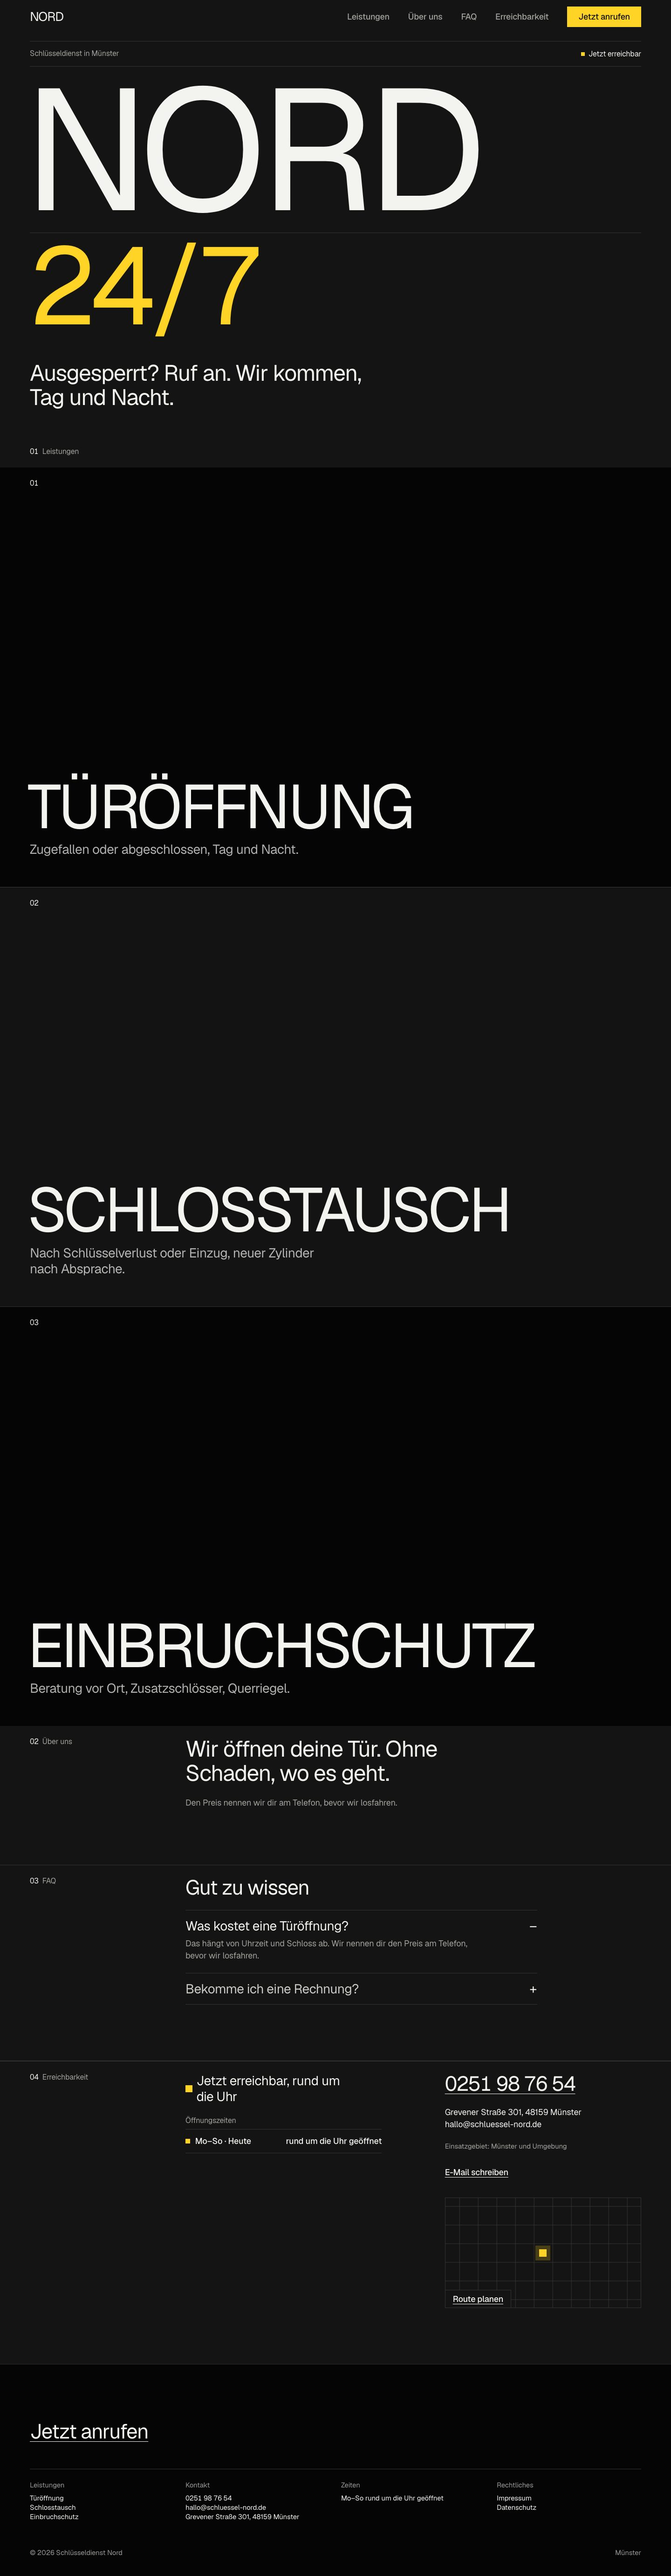
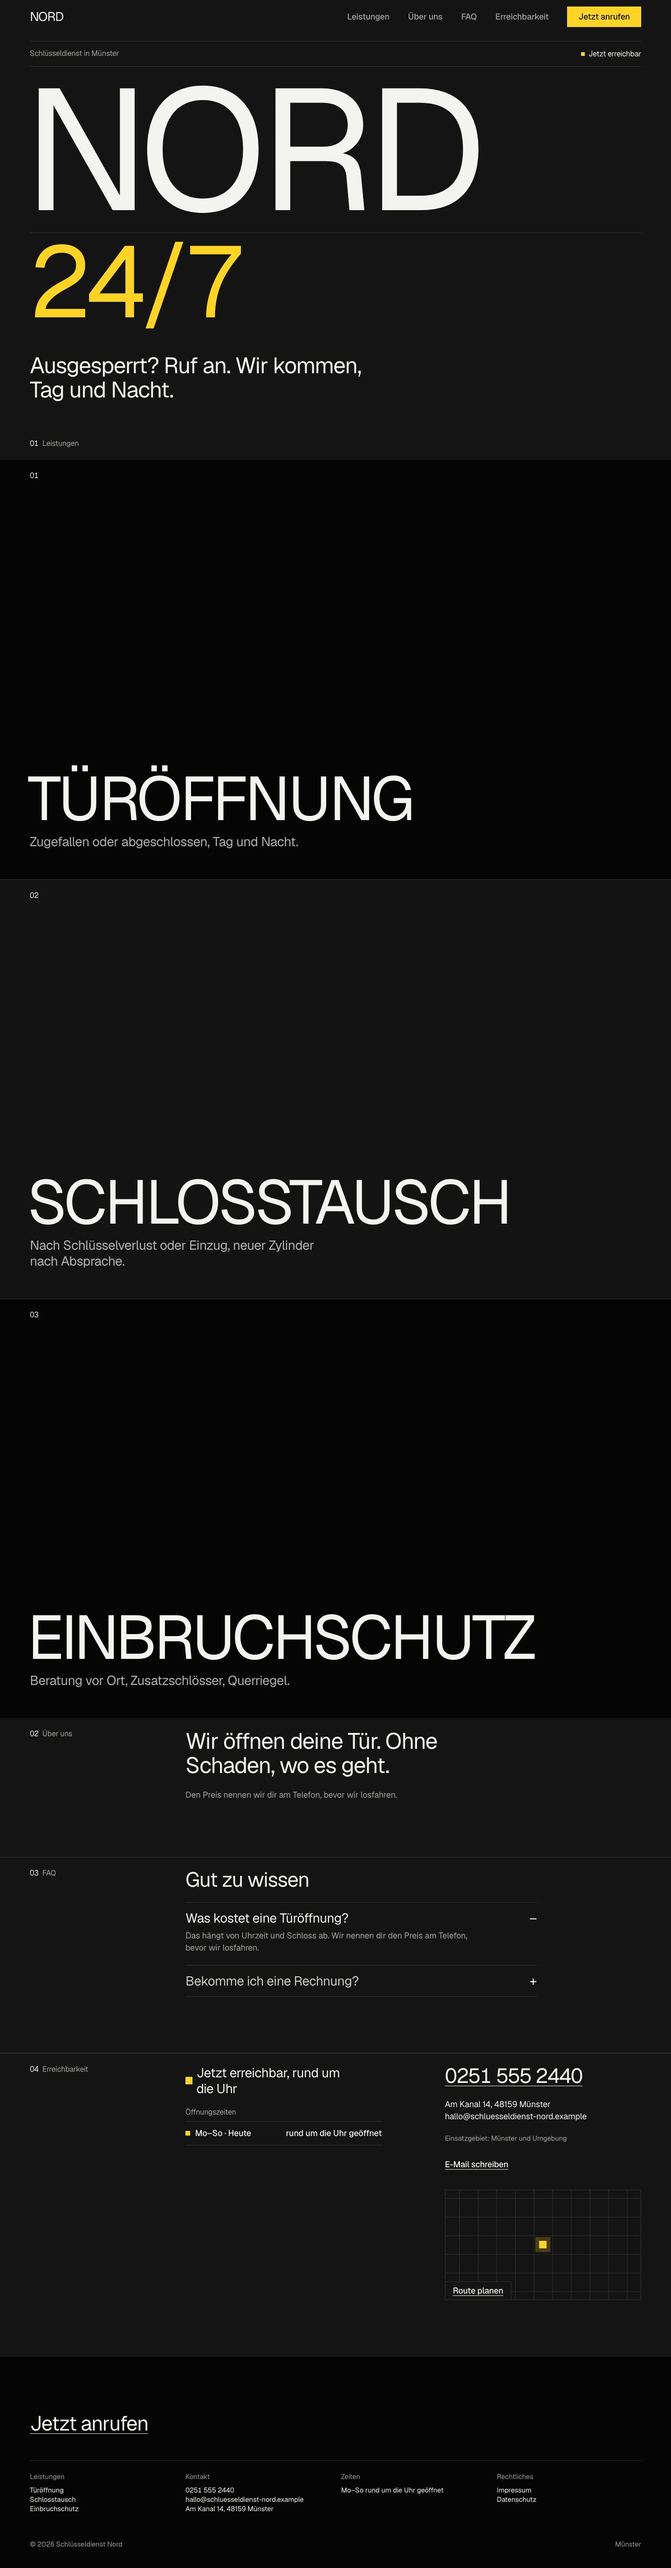
fix(raster): fiktive Kontaktdaten der Beispielbetriebe, benannte Höhenanteile
- Schlüsseldienst Nord: 555-Rufnummer, neutrale Straße, .example-Domain;
  Werkstatt/Taxi/Hersteller ebenfalls auf .example (Test)
- Höhenbremse als ENTRY_HEIGHT_SHARE (60 % / 36 % + 24 %), Test prüft
  Struktur und gemeinsames Budget statt fester Zahlen
- Abnahmebilder Werkstatt und Schlüsseldienst neu gerendert

diff --git a/client/src/components/site/systems/raster/css.ts b/client/src/components/site/systems/raster/css.ts
@@ -64,14 +64,25 @@ const SCRIM = [
 const LOCAL_SCRIM = `linear-gradient(180deg,transparent 0,${deepAt(BLEED_SCRIM.local)} var(--sys-space-m),${deepAt(BLEED_SCRIM.local)} calc(100% - var(--sys-space-m)),transparent 100%)`;
 
 /**
- * Höhenbremse der Wortmarke: alle Zeilen zusammen höchstens 60 % der
- * Bildschirmhöhe (`--rs-lines` aus fit.ts, nur ab zwei Zeilen gesetzt), damit
- * Satz und Fakten im ersten Bildschirm bleiben („Kfz-Service Brandt" auf
- * 1440 × 900 sonst drei Zeilen à 18 rem).
+ * Höhenbremse im Einstieg, als Anteil der Bildschirmhöhe (`svh`): alle
+ * Zeilen der Wortmarke zusammen höchstens `mark` (`--rs-lines` aus fit.ts,
+ * nur ab zwei Zeilen gesetzt), damit Satz und Fakten im ersten Bildschirm
+ * bleiben („Kfz-Service Brandt" auf 1440 × 900 sonst drei Zeilen à 18 rem).
+ * Im Typo-Einstieg teilen sich Name (`typeMark`) und „24/7" (`typeClock`)
+ * dasselbe Budget. Auf dem Handy greift die Breite zuerst.
  */
-const MARK_HEIGHT = `60svh / (var(--rs-lines,1) * ${RASTER.type.display.line})`;
-/** Typo-Einstieg: Name höchstens 36 %, „24/7" höchstens 26 % der Höhe. */
-const MARK_HEIGHT_TYPE = `36svh / (var(--rs-lines,1) * ${RASTER.type.display.line})`;
+export const ENTRY_HEIGHT_SHARE = {
+  mark: 0.6,
+  typeMark: 0.36,
+  typeClock: 0.24,
+} as const;
+const svh = (share: number) => `${Math.round(share * 100)}svh`;
+/** Höhe je Zeile: Anteil ÷ (Zeilen × Zeilenhöhe der Stufe `display`). */
+const perLine = (share: number) =>
+  `${svh(share)} / (var(--rs-lines,1) * ${RASTER.type.display.line})`;
+const MARK_HEIGHT = perLine(ENTRY_HEIGHT_SHARE.mark);
+const MARK_HEIGHT_TYPE = perLine(ENTRY_HEIGHT_SHARE.typeMark);
+const CLOCK_HEIGHT = svh(ENTRY_HEIGHT_SHARE.typeClock);
 
 /**
  * Einstieg (Systemblatt 6/10). Wortmarke: Größe aus der Spaltenbreite
@@ -132,7 +143,7 @@ const ENTRY_CSS = `/* Einstieg: drei Fassungen (plate · bleed · type) */
 .pb-raster .rs-entry-clock{container-type:inline-size;border-top:1px solid var(--sys-rule);margin-top:var(--sys-space-s);padding-top:var(--sys-space-xs);color:var(--sys-signal)}
 .pb-raster .rs-entry-clock-figure{${step("figure")};display:block;font-variant-numeric:tabular-nums;white-space:nowrap}
 @supports (font-size:1cqi){
-  .pb-raster .rs-entry-clock-figure{font-size:clamp(var(--sys-figure-size),min(100cqi / var(--rs-fit),26svh),${FIT_MAX_REM}rem)}
+  .pb-raster .rs-entry-clock-figure{font-size:clamp(var(--sys-figure-size),min(100cqi / var(--rs-fit),${CLOCK_HEIGHT}),${FIT_MAX_REM}rem)}
 }
 .pb-raster .rs-entry--type .rs-entry-bottom{margin-top:auto;padding-top:var(--sys-space-xl)}
 

diff --git a/client/src/components/site/systems/raster/entry.test.tsx b/client/src/components/site/systems/raster/entry.test.tsx
@@ -2,7 +2,7 @@ import React from "react";
 import { renderToStaticMarkup } from "react-dom/server";
 import { describe, expect, test } from "vitest";
 import { SiteRenderer } from "../../SiteRenderer";
-import { RASTER_CSS } from "./css";
+import { ENTRY_HEIGHT_SHARE, RASTER_CSS } from "./css";
 import {
   kanzleiDoc,
   patchSection,
@@ -154,15 +154,27 @@ describe("Raster-Einstieg: Wortmarke und h1", () => {
     expect(entryOf(render(three))).toMatch(
       /class="rs-wordmark" style="--rs-fit:\d\.\d{3};--rs-lines:3"/
     );
-    expect(RASTER_CSS).toMatch(
-      /\.rs-entry--type \.rs-wordmark\{font-size:clamp\([^}]*36svh/
-    );
-    expect(RASTER_CSS).toMatch(/\.rs-entry-clock-figure\{font-size:clamp\([^}]*26svh/);
     const one = { ...kanzleiDoc(), businessName: "Yilmaz" };
     expect(entryOf(render(one))).not.toContain("--rs-lines");
-    expect(RASTER_CSS).toMatch(
-      /\.rs-wordmark\{font-size:clamp\([\d.]+rem,min\(100cqi \/ var\(--rs-fit\),60svh \/ \(var\(--rs-lines,1\) \* 0\.88\)\),26rem\)\}/
-    );
+  });
+
+  test("Höhenbremse: Breite und Höhe begrenzen gemeinsam, Typo-Einstieg teilt das Budget", () => {
+    const { mark, typeMark, typeClock } = ENTRY_HEIGHT_SHARE;
+    // Name + „24/7" im Typo-Einstieg nicht höher als ein Foto-Einstiegsname.
+    expect(typeMark + typeClock).toBeLessThanOrEqual(mark);
+    const sizeOf = (selector: string) =>
+      RASTER_CSS.match(
+        new RegExp(`${selector.replace(/[.]/g, "\\.")}\\{font-size:([^}]*)\\}`)
+      )?.[1] ?? "";
+    // Höhe je Zeile wird durch die Zeilenzahl geteilt (Fallback 1 Zeile).
+    for (const sel of [".rs-wordmark", ".rs-entry--type .rs-wordmark"]) {
+      const size = sizeOf(sel);
+      expect(size).toMatch(/^clamp\(.*min\(100cqi \/ var\(--rs-fit\),/);
+      expect(size).toContain("/ (var(--rs-lines,1) *");
+    }
+    expect(sizeOf(".rs-wordmark")).toContain(`${mark * 100}svh`);
+    expect(sizeOf(".rs-entry--type .rs-wordmark")).toContain(`${typeMark * 100}svh`);
+    expect(sizeOf(".rs-entry-clock-figure")).toContain(`${typeClock * 100}svh`);
   });
 
   test("Kanzlei: Kicker Branche in Ort, Satz aus der Überschrift", () => {

diff --git a/shared/stylePacks/blueprintShowcase.ts b/shared/stylePacks/blueprintShowcase.ts
@@ -48,6 +48,11 @@ const SAMPLE_PROCESS: SectionOf<"process"> = {
 type SampleText = {
   hero: { headline: string; subheadline: string };
   /** Adresse passend zum Beispiel (die Fixture gehört zu einer anderen Firma). */
+  /**
+   * Fiktive Kontaktdaten: Rufnummern im Muster „Vorwahl 555 …", Domains auf
+   * `.example` (RFC 2606) — die Demo-Seiten sind öffentlich und verlinken
+   * per `tel:`/`mailto:`.
+   */
   contact: {
     street: string;
     zip: string;
@@ -78,7 +83,7 @@ const SAMPLE_TEXT: Record<string, SampleText> = {
       zip: "44263",
       city: "Dortmund",
       phone: "0231 555 4471",
-      email: "service@kfz-brandt-dortmund.de",
+      email: "service@kfz-brandt.example",
     },
     hero: {
       headline: "Kfz-Werkstatt in Dortmund-Hörde",
@@ -138,7 +143,7 @@ const SAMPLE_TEXT: Record<string, SampleText> = {
       zip: "46395",
       city: "Bocholt",
       phone: "02871 555 120",
-      email: "anfrage@kruse-metalltechnik.de",
+      email: "anfrage@kruse-metalltechnik.example",
     },
     hero: {
       headline: "Metallverarbeitung für die Industrie in Bocholt",
@@ -198,7 +203,7 @@ const SAMPLE_TEXT: Record<string, SampleText> = {
       zip: "46414",
       city: "Rhede",
       phone: "02872 555 300",
-      email: "fahrt@taxi-rhede.de",
+      email: "fahrt@taxi-rhede.example",
     },
     hero: {
       headline: "Taxi in Rhede und Umgebung",
@@ -251,11 +256,11 @@ const SAMPLE_TEXT: Record<string, SampleText> = {
   // Einstieg nur Schrift, Zeiten rund um die Uhr.
   schluesseldienst: {
     contact: {
-      street: "Grevener Straße 301",
+      street: "Am Kanal 14",
       zip: "48159",
       city: "Münster",
-      phone: "0251 98 76 54",
-      email: "hallo@schluessel-nord.de",
+      phone: "0251 555 2440",
+      email: "hallo@schluesseldienst-nord.example",
     },
     hours: [{ day: "Mo–So", hours: "24 Stunden" }],
     hero: {

diff --git a/shared/stylePacks/blueprintShowcase.test.ts b/shared/stylePacks/blueprintShowcase.test.ts
@@ -71,4 +71,14 @@ describe("Bauplan-Übersicht", () => {
       ).not.toMatch(/schreinerei|nordvolt|fundament|Kiel|seit/i);
     }
   });
+
+  it("Beispiel-Kontaktdaten sind erkennbar fiktiv (555-Nummern, .example)", () => {
+    for (const id of ["werkstatt", "taxi", "hersteller", "schluesseldienst"]) {
+      const doc = showcaseDoc(SHOWCASES.find(s => s.id === id)!, "stage");
+      const contact = doc.sections.find(s => s.type === "contact");
+      if (contact?.type !== "contact") throw new Error(id);
+      expect(contact.phone).toMatch(/^0\d+ 555 \d+$/);
+      expect(contact.email).toMatch(/\.example$/);
+    }
+  });
 });

diff --git a/docs/designsysteme/raster/audit.md b/docs/designsysteme/raster/audit.md
@@ -24,7 +24,7 @@ Schwere: **hoch** = Regelverstoß oder sichtbarer Fehler · **mittel** = merkbar
 | # | Befund | Schwere | Ort | Behebung |
 |---|---|---|---|---|
 | G1 | Desktop 1440 × 900: „Kfz-Service Brandt" lief über drei Zeilen à 18 rem — der erste Bildschirm zeigte nur den Namen, Satz und Fakten lagen darunter (Systemblatt 10: Name, Satz, „Heute geöffnet" in einem Bild) | hoch | `fit.ts`, `Entry.tsx`, `css.ts` | Höhenbremse: Zeilenzahl auf Desktop-Breite (`--rs-lines`, nur ab 2 Zeilen) begrenzt alle Zeilen auf 60 % der Höhe; der Name rückt auf zwei Zeilen, Satz und Fakten stehen im ersten Bildschirm. Einzeilige Namen unverändert. Tests |
-| G2 | Typo-Einstieg (Schlüsseldienst) auf Desktop: „NORD" und „24/7" füllten je fast eine halbe Höhe, der Satz „Ausgesperrt? Ruf an." lag unter dem ersten Bildschirm | mittel | `css.ts` | im Typo-Einstieg Name ≤ 36 %, „24/7" ≤ 26 % der Höhe; Handy unverändert (dort begrenzt die Breite). Test |
+| G2 | Typo-Einstieg (Schlüsseldienst) auf Desktop: „NORD" und „24/7" füllten je fast eine halbe Höhe, der Satz „Ausgesperrt? Ruf an." lag unter dem ersten Bildschirm | mittel | `css.ts` | im Typo-Einstieg Name ≤ 36 %, „24/7" ≤ 24 % der Höhe (zusammen nicht mehr als die 60 % des Foto-Einstiegs, `ENTRY_HEIGHT_SHARE`); Handy unverändert (dort begrenzt die Breite). Test |
 | G3 | Über uns ohne Foto: ein Satz von 122 Zeichen stand als `lede` (5 Zeilen Desktop, 7 Zeilen Handy) direkt unter der Abschnittsüberschrift — zwei große Textblöcke übereinander | mittel | `Story.tsx` | `lede` nur bis 120 Zeichen (Systemblatt: zwei, drei Zeilen); längere Sätze laufen als Fließtext. Test |
 | G4 | Fuß, Spalte „Zeiten": je Wochentag eine Zeile („Montag 8–17 Uhr" … fünfmal), während das Kontakt-Kapitel „Montag–Donnerstag" zusammenfasst | mittel | `Chrome.tsx`, `css.ts` | gleiche Folgetage zusammengefasst (`groupOpeningHours`), Uhrzeit bricht nicht mehr um („8–⏎17 Uhr"). Test |
 | G5 | Handy: unter dem Fuß lag ein Papierstreifen in Höhe der Leiste (Abstand für das Dock auf dem Seitenrahmen) | niedrig | `css.ts` | Abstand sitzt jetzt im Fuß selbst (Fußfarbe); Seitenrahmen nur ohne Fuß. Test |
@@ -49,7 +49,7 @@ Schwere: **hoch** = Regelverstoß oder sichtbarer Fehler · **mittel** = merkbar
 | # | Befund | Schwere | Ort | Behebung |
 |---|---|---|---|---|
 | U1 | Beispielbetriebe mit Beispieltexten trugen Kontaktdaten und Leistungs-Einleitung der fremden Fixture: Kfz-Werkstatt zeigte `info@schreinerei-brandt-dortmund.de` und „Vier Kernbereiche … lange haltbar", Taxi `service@nordvolt.de` und „Vier Systeme — ein Ansprechpartner, ein Protokoll" | hoch | `blueprintShowcase.ts` | Beispieltexte bringen eigene E-Mail mit, Einleitung der Fixture entfällt, Fußnotiz/Unterzeile der Fixture ersetzt. Test |
-| U2 | Kein Beispiel für „Sofort-Dienst ohne Foto und ohne Bewertungen" (Review-Fokus 2) in Vorschau und Design-Übersicht | mittel | `blueprintShowcaseList.ts` | neuer Betrieb **Schlüsseldienst Nord** (Münster, Mo–So 24 Stunden, `photos: "none"`, keine Bewertungen → kein Stimmen-Abschnitt, keine Google-Zahlen). Raster hat in `/design-review` jetzt 8 Betriebe (Beratung ×3, Auto, Sofort ×2, Industrie, Standard). Test |
+| U2 | Kein Beispiel für „Sofort-Dienst ohne Foto und ohne Bewertungen" (Review-Fokus 2) in Vorschau und Design-Übersicht | mittel | `blueprintShowcaseList.ts` | neuer Betrieb **Schlüsseldienst Nord** (Münster, fiktive 555-Nummer und `.example`-Adresse wie alle Beispielbetriebe, Mo–So 24 Stunden, `photos: "none"`, keine Bewertungen → kein Stimmen-Abschnitt, keine Google-Zahlen). Raster hat in `/design-review` jetzt 8 Betriebe (Beratung ×3, Auto, Sofort ×2, Industrie, Standard). Test |
 
 ### Wartung (aufgeschobene Kleinigkeiten)
 
